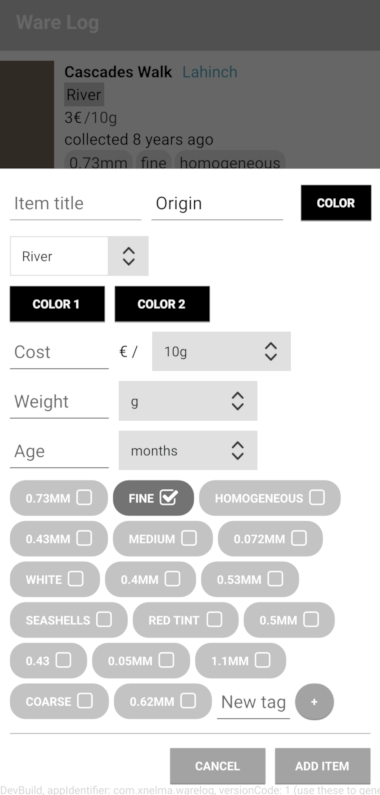
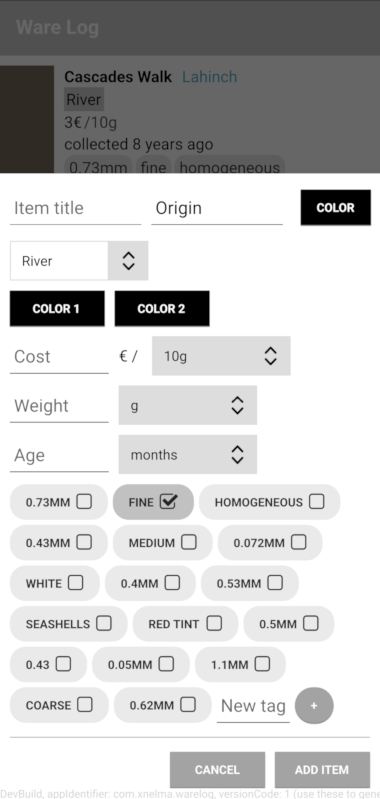
chore: keep dark mode tutorial part after insert item
Use "black" as text color instead of the property, update the
screenshot and add a description to the dark mode chapter.

Moving the dark mode chapter to the style chapter would make the
latter quite big, while it is just meant as an intermediate chapter.
The tutorial might be easier to follow, if the dark mode changes
come in a separate chapter, after item insert.

diff --git a/doc/tutorial/06-darkmode.html b/doc/tutorial/06-darkmode.html
@@ -112,7 +112,9 @@ onInitTheme: {
     Theme<span class="operator">.</span>navigationBar<span class="operator">.</span>shadowHeight <span class="operator">=</span> <span class="number">0</span>
 }</pre>
 <p>Toggling light and dark mode should now change colors to dark or light respectively.</p>
-<p class="centerAlign"><img src="images/dark_mode_2.jpg" alt="{Dark mode for list view}" /></p><p>For the item edit view, the default color properties are hardcoded. Create properties for the default color and the button text color, and use them instead of the hardcoded values.</p>
+<p class="centerAlign"><img src="images/dark_mode_2.jpg" alt="{Dark mode for list view}" /></p><p>In the item edit view, the tag base color (the text color of <code translate="no">TagButton</code>) and the default color properties are hardcoded.<br />
+ For the TagButton, set the text color to <code translate="no">aRoot.textColor</code>. If not done already, set <code translate="no">aRoot</code> (for 'app root') as id of the <code translate="no">App</code> component in <code translate="no">Main.qml</code>. This should be enough to toggle colors between dark and light mode for the tag button list.</p>
+<p>For the default color, create properties for it and for the <code translate="no">ColorButton</code> text color, and use them instead of the hardcoded values.</p>
 <pre class="cpp" translate="no">property string colorButtonTextColor: darkModeEnabled<span class="operator">?</span> <span class="string">&quot;black&quot;</span> : <span class="string">&quot;white&quot;</span>
 property string defaultColor: darkModeEnabled<span class="operator">?</span> <span class="string">&quot;white&quot;</span> : <span class="string">&quot;black&quot;</span></pre>
 <p>and in <code translate="no">EditItemView.qml</code>:</p>

diff --git a/doc/tutorial/05-insert.html b/doc/tutorial/05-insert.html
@@ -315,7 +315,7 @@ Row {
     iconRight: checked<span class="operator">?</span> IconType<span class="operator">.</span>checksquareo : IconType<span class="operator">.</span>squareo
     checkable: <span class="keyword">true</span>
     opacity: <span class="number">0.8</span>
-    textColor: aRoot<span class="operator">.</span>textColor
+    textColor: <span class="string">&quot;black&quot;</span>
     backgroundColor: <span class="type">Qt</span><span class="operator">.</span>rgba(textColor<span class="operator">.</span>r<span class="operator">,</span> textColor<span class="operator">.</span>g<span class="operator">,</span> textColor<span class="operator">.</span>b<span class="operator">,</span>
                              checked<span class="operator">?</span> <span class="number">0.3</span> : <span class="number">0.1</span>);
     dropShadow: <span class="keyword">false</span>
